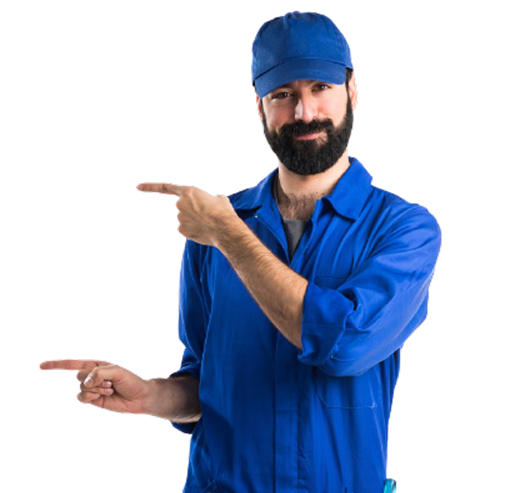
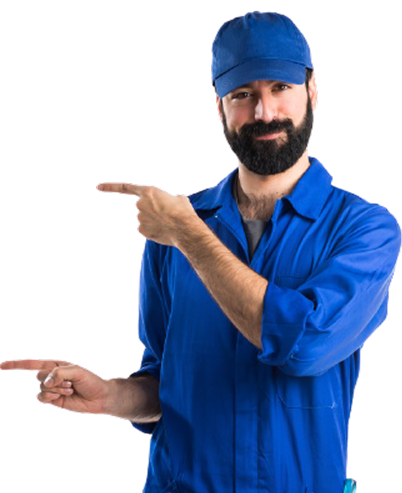
fix: Update technician image and adjust layout in homepage for better responsiveness

diff --git a/src/pages/index.tsx b/src/pages/index.tsx
@@ -14,8 +14,8 @@ export default function Home() {
             <section className="bg-gradient-to-r from-[var(--blue-100)] to-[var(--blue-200)] h-auto md:h-[520px] pt-8 md:pt-8">
                 <div className="max-w-6xl mx-auto px-4 md:px-0 flex flex-col md:flex-row items-center justify-between h-full relative">
             {/* ข้อความ */}
-                    <div className="flex-1 text-left mb-8 md:mb-0">
-                    <div className="text-4xl md:text-6xl font-bold text-[var(--blue-700)] mb-8 font-prompt ">
+                    <div className="flex-1 text-left mb-8 md:mb-8">
+                    <div className="text-5xl md:text-6xl font-bold text-[var(--blue-700)] mb-8 font-prompt ">
                             เรื่องบ้าน...ให้เราช่วยดูแลคุณ
                     </div>
                         <p className="text-2xl md:text-4xl font-bold text-[var(--gray-900)] mb-10 font-prompt">
@@ -30,80 +30,80 @@ export default function Home() {
                         </Link>
                     </div>
 
-          {/* รูป */}
-          <div className=" justify-end items-end w-auto relative ">
+            {/* รูป */}
+            <div className=" justify-end items-end w-auto relative ">
+              <Image
+                src="/images/technicain.png"
+                alt="Professional Technician"
+                width={390}
+                height={390}
+                className=" max-w-[390px] md:max-w-[480px] relative  md:right-5 md:top-1 h-auto object-contain pl-12 md:pl-0 ml-0 "
+              />
+            </div>
+          </div>
+        </section>
+
+            {/* Our Services Section */}
+            <section className="py-16 bg-[var(--gray-100)]">
+              <div className="max-w-6xl mx-auto px-4">
+                <h2 className="text-3xl font-bold text-center text-[var(--gray-900)] mb-12 font-prompt">
+                  บริการยอดฮิตของเรา
+                </h2>
+                <PopularServices />
+              </div>
+              <div className="flex justify-center mt-12">
+                <Link href="/services">
+                  <ButtonPrimary>ดูบริการทั้งหมด</ButtonPrimary>
+                </Link>
+              </div>
+            </section>
+
+            {/* Contact Section */}
+            <section className="bg-[var(--blue-600)] relative ">
+              <div className="flex flex-col md:flex-row items-center justify-between text-[var(--white)] w-full">
+
+            {/* รูปซ้าย (ชิดซ้ายสุด) */}
+            <div className="relative w-full md:w-auto">
+              <Image
+                src="/images/มาร่วมเป็นพนักงานซ่อม.svg"
+                alt="Join Our Team"
+                width={100}
+                height={100}
+                className="w-full h-[280px] md:h-[372px] object-cover"
+              />
+            </div>
+
+            {/* ข้อความ */}
+            <div className="flex-1 md:ml-40 md:text-left mb-40 md:mb-0 mt-10 md:mt-0">
+              <h2 className="text-2xl md:text-4xl font-bold mb-6 font-prompt ">
+                มาร่วมเป็นพนักงานซ่อม
+                <br />
+                กับ HomeServices
+              </h2>
+              <p className="text-lg md:text-xl mb-6 font-prompt">
+                เข้ารับการฝึกอบรมที่ได้มาตรฐาน ฟรี!
+                <br />
+                และยังได้รับค่าตอบแทนที่มากขึ้นกว่าเดิม
+              </p>
+              <p className="text-xl md:text-3xl font-semibold font-prompt">
+                ติดต่อสมัครได้ที่: <br className="md:hidden" />
+                job@homeservices.co
+              </p>
+            </div>
+          </div>
+
+            {/* ไอคอนบ้าน */}
             <Image
-              src="/images/technicain.png"
-              alt="Professional Technician"
-              width={480}
-              height={480}
-              className=" max-w-[390px] md:max-w-[480px] relative bottom-0 right-0 md:left-10 md:top-4 h-auto object-contain pl-12 md:pl-0 ml-0 "
+              src="/images/house 1.svg"
+              alt="House Icon"
+              width={360}
+              height={360}
+              className="absolute bottom-0 right-0 h-[280px] md:h-[360px] object-contain opacity-40 md:opacity-100"
             />
-          </div>
-        </div>
-      </section>
+          </section>
 
-      {/* Our Services Section */}
-      <section className="py-16 bg-[var(--gray-100)]">
-        <div className="max-w-6xl mx-auto px-4">
-          <h2 className="text-3xl font-bold text-center text-[var(--gray-900)] mb-12 font-prompt">
-            บริการยอดฮิตของเรา
-          </h2>
-          <PopularServices />
-        </div>
-        <div className="flex justify-center mt-12">
-          <Link href="/services">
-            <ButtonPrimary>ดูบริการทั้งหมด</ButtonPrimary>
-          </Link>
-        </div>
-      </section>
-
-      {/* Contact Section */}
-      <section className="bg-[var(--blue-600)] relative ">
-        <div className="flex flex-col md:flex-row items-center justify-between text-[var(--white)] w-full">
-
-          {/* รูปซ้าย (ชิดซ้ายสุด) */}
-          <div className="relative w-full md:w-auto">
-            <Image
-              src="/images/มาร่วมเป็นพนักงานซ่อม.svg"
-              alt="Join Our Team"
-              width={100}
-              height={100}
-              className="w-full h-[280px] md:h-[372px] object-cover"
-            />
-          </div>
-
-          {/* ข้อความ */}
-          <div className="flex-1 md:ml-40 md:text-left mb-40 md:mb-0 mt-10 md:mt-0">
-            <h2 className="text-2xl md:text-4xl font-bold mb-6 font-prompt ">
-              มาร่วมเป็นพนักงานซ่อม
-              <br />
-              กับ HomeServices
-            </h2>
-            <p className="text-lg md:text-xl mb-6 font-prompt">
-              เข้ารับการฝึกอบรมที่ได้มาตรฐาน ฟรี!
-              <br />
-              และยังได้รับค่าตอบแทนที่มากขึ้นกว่าเดิม
-            </p>
-            <p className="text-xl md:text-3xl font-semibold font-prompt">
-              ติดต่อสมัครได้ที่: <br className="md:hidden" />
-              job@homeservices.co
-            </p>
-          </div>
-        </div>
-
-        {/* ไอคอนบ้าน */}
-        <Image
-          src="/images/house 1.svg"
-          alt="House Icon"
-          width={360}
-          height={360}
-          className="absolute bottom-0 right-0 h-[280px] md:h-[360px] object-contain opacity-40 md:opacity-100"
-        />
-      </section>
-
-      {/* Footer */}
-      <Footer />
-    </div>
-  );
-}
+            {/* Footer */}
+            <Footer />
+      </div>
+    );
+  }
